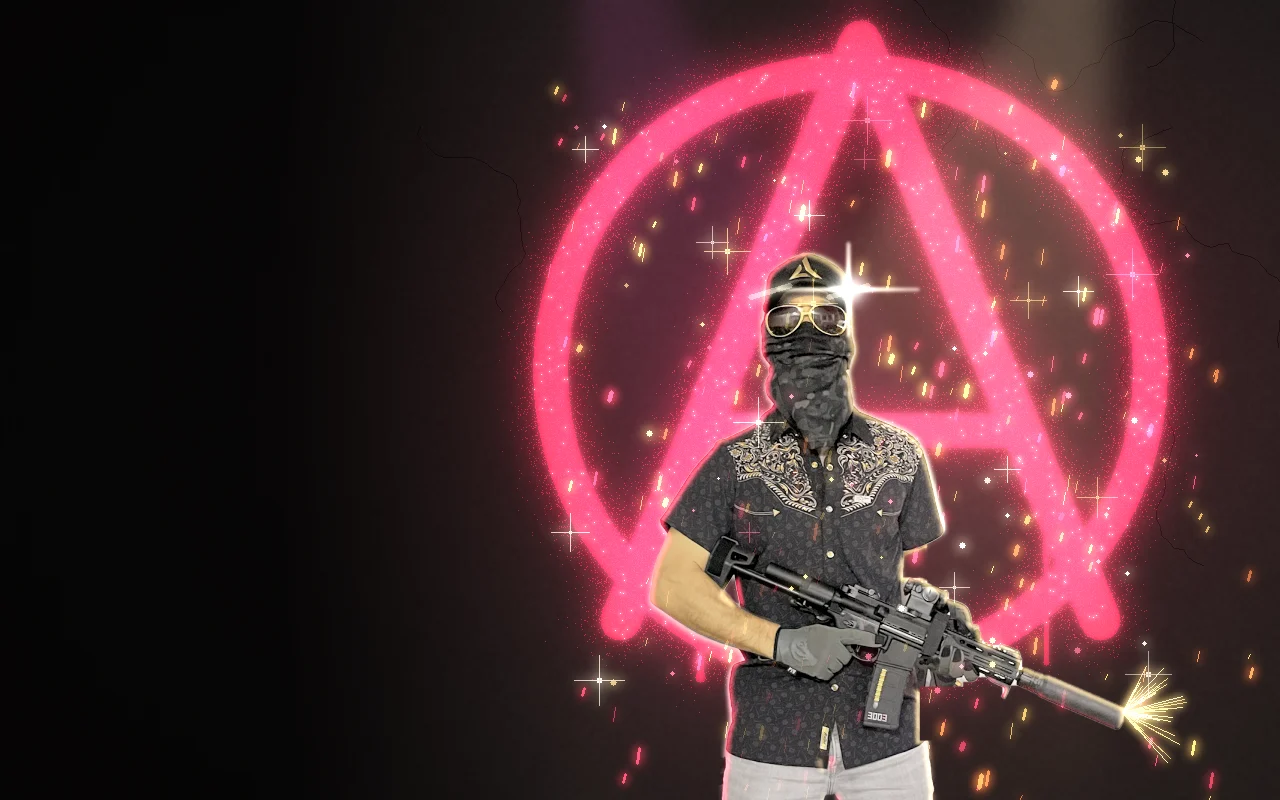
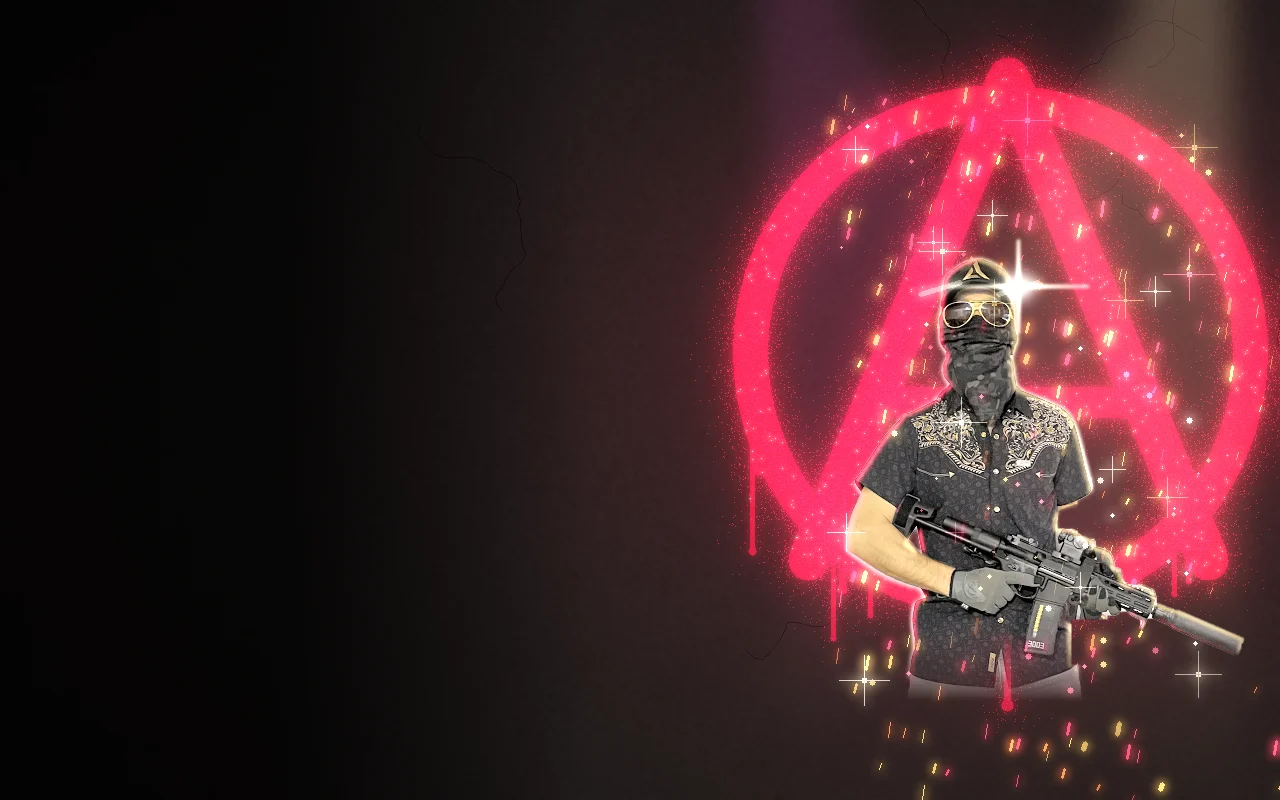
CARD FIXES Group 1 — THE OWNER's LAB FIX NOTES: PLAYER ONE + HALL OF FAME strips show the whole face, SUNSET STRIP's glint on the lenses only (+ a twinkle), YOUNG BUCK + ICE COLD slid right of the plate, THE ANARCHIST v2 (his approved art, the effects moved with him); each marked CHANGED in THE LAB
(css/vault.css + gift-specs.js also carry Group 2's compact gift plate + Group 3's PRESS START — one file each.)

diff --git a/api/_lib/lab-text.js b/api/_lib/lab-text.js
@@ -489,11 +489,28 @@ export const LAB_CHANGES = {
   'card-camo': [{ v: 2, at: '2026-11-05', what: 'The scope’s reticle locks on in the middle-right now — it sat on top of the tier gem in the corner (THE HERO-SPOT RULE).' }],
   'card-sg-tr3b': [{ v: 2, at: '2026-11-05', what: 'The craft sits a little further left, in the middle-right — its right wing ran under the tier gem (THE HERO-SPOT RULE).' }],
   'full-card-century': [{ v: 2, at: '2026-11-03', what: 'The new real fire over the bronze.' }, { v: 3, at: '2026-11-04', what: 'The bronze DECO SUNBURST behind the name instead of the fire, the light sweep + the golden embers — the same as the strip.' }],
-  'card-dev-switchboard': [{ v: 2, at: '2026-11-03', what: 'The pink cable lands in a TOP-row jack. The ONE OF ONE pill is gone — THE DEV GEM (prismatic, pulsing, sparkling) in the corner instead; no words on the strip (the decided rule).' }, { v: 3, at: '2026-11-05', what: 'The jacks moved a little right — THE DEV · № 0001 line’s plate reached them (THE HERO-SPOT RULE).' }],
-  'card-dev-source': [{ v: 2, at: '2026-11-03', what: 'NEON brought down + centred in the strip. The pill → THE DEV GEM.' }, { v: 3, at: '2026-11-05', what: 'NEON a touch smaller, between your plate (THE DEV · № line) + the dev gem — it ran into both (THE HERO-SPOT RULE).' }],
-  'full-card-dev-switchboard': [{ v: 2, at: '2026-11-03', what: '1 OF 1 · DEV in bold. The top row reads NEON SPEAKEASY · FOUNDER (its Nº dropped — it’s under your name); the badge never covers the VU meter.' }, { v: 3, at: '2026-11-04', what: 'The pill reads just 1 OF 1 (it cut off FOUNDER). The top line never clips now — its letters tighten first.' }, { v: 4, at: '2026-11-04', what: 'Your name plate now reaches past THE DEVELOPER · № 0001 (it was sized to the name and the line ran past its edge).' }, { v: 5, at: '2026-11-05', what: 'ON AIR moved up into the band under the top line, right of the level lamps — a long name’s plate ran over it. 1 OF 1 is back in the rainbow gradient (brighter colours, a dark edge, a touch bigger) with a clear gap before FOUNDER.' }],
-  'full-card-dev-source': [{ v: 2, at: '2026-11-03', what: '1 OF 1 · DEV in bold.' }, { v: 3, at: '2026-11-04', what: 'The pill reads just 1 OF 1. The top line never clips now — its letters tighten first.' }, { v: 4, at: '2026-11-04', what: 'Your name plate now reaches past THE DEVELOPER · № 0001 (it ran past the plate’s edge).' }, { v: 5, at: '2026-11-05', what: '1 OF 1 is back in the rainbow gradient (brighter colours, a dark edge, a touch bigger) with a clear gap before FOUNDER.' }],
+  'card-dev-switchboard': [{ v: 2, at: '2026-11-03', what: 'The pink cable lands in a TOP-row jack. The ONE OF ONE pill is gone — THE DEV GEM (prismatic, pulsing, sparkling) in the corner instead; no words on the strip (the decided rule).' }, { v: 3, at: '2026-11-05', what: 'The jacks moved a little right — THE DEV · № 0001 line’s plate reached them (THE HERO-SPOT RULE).' }, { v: 4, at: '2026-11-05', what: 'The plate’s dev line reads DEV · Nº 0001 (was THE DEV / THE DEVELOPER).' }],
+  'card-dev-source': [{ v: 2, at: '2026-11-03', what: 'NEON brought down + centred in the strip. The pill → THE DEV GEM.' }, { v: 3, at: '2026-11-05', what: 'NEON a touch smaller, between your plate (THE DEV · № line) + the dev gem — it ran into both (THE HERO-SPOT RULE).' }, { v: 4, at: '2026-11-05', what: 'The plate’s dev line reads DEV · Nº 0001 (was THE DEV / THE DEVELOPER).' }],
+  'full-card-dev-switchboard': [{ v: 2, at: '2026-11-03', what: '1 OF 1 · DEV in bold. The top row reads NEON SPEAKEASY · FOUNDER (its Nº dropped — it’s under your name); the badge never covers the VU meter.' }, { v: 3, at: '2026-11-04', what: 'The pill reads just 1 OF 1 (it cut off FOUNDER). The top line never clips now — its letters tighten first.' }, { v: 4, at: '2026-11-04', what: 'Your name plate now reaches past THE DEVELOPER · № 0001 (it was sized to the name and the line ran past its edge).' }, { v: 5, at: '2026-11-05', what: 'ON AIR moved up into the band under the top line, right of the level lamps — a long name’s plate ran over it. 1 OF 1 is back in the rainbow gradient (brighter colours, a dark edge, a touch bigger) with a clear gap before FOUNDER.' }, { v: 6, at: '2026-11-05', what: 'The plate’s dev line reads DEV · Nº 0001 (was THE DEV / THE DEVELOPER).' }],
+  'full-card-dev-source': [{ v: 2, at: '2026-11-03', what: '1 OF 1 · DEV in bold.' }, { v: 3, at: '2026-11-04', what: 'The pill reads just 1 OF 1. The top line never clips now — its letters tighten first.' }, { v: 4, at: '2026-11-04', what: 'Your name plate now reaches past THE DEVELOPER · № 0001 (it ran past the plate’s edge).' }, { v: 5, at: '2026-11-05', what: '1 OF 1 is back in the rainbow gradient (brighter colours, a dark edge, a touch bigger) with a clear gap before FOUNDER.' }, { v: 6, at: '2026-11-05', what: 'The plate’s dev line reads DEV · Nº 0001 (was THE DEV / THE DEVELOPER).' }],
   'card-founder': [{ v: 2, at: '2026-11-03', what: 'NEON SPEAKEASY centred. The LEGENDARY + Nº pills are gone — a gold TIER GEM in the corner + your Nº in gold letters.' }],
   'full-card-founder': [{ v: 2, at: '2026-11-03', what: 'The card-game room is now THE SHADOWBOXER, live (the city’s own). The FOUNDER badge sits in a slot clear of anything moving.' }],
-  'full-card-house': [{ v: 2, at: '2026-11-03', what: 'The card-game room is now THE SHADOWBOXER, live (no card game anywhere).' }],
+  'full-card-house': [{ v: 2, at: '2026-11-03', what: 'The card-game room is now THE SHADOWBOXER, live (no card game anywhere).' }],  // CARD FIXES (Nov 5 evening — the owner's LAB notes + THE CARD LAYOUT RULE)
+  'card-gift-playerone': [{ v: 2, at: '2026-11-05', what: 'Your note “Show more of his face”: the strip shows his whole face now, forehead to chin (the art zoomed out a touch, sitting right).' }],
+  'card-gift-halloffame': [{ v: 2, at: '2026-11-05', what: 'Your note “Show more of his face”: the strip shows his whole face, chin included (zoomed out a touch).' }],
+  'card-gift-sunsetstrip': [{ v: 2, at: '2026-11-05', what: 'The glint now crosses the sunglasses ONLY (from the full card’s fix).' }],
+  'card-gift-youngbuck': [{ v: 2, at: '2026-11-05', what: 'The picture slid right with the full card’s fix (his face clear of your plate).' }],
+  'card-gift-icecold': [{ v: 2, at: '2026-11-05', what: 'The picture slid right with the full card’s fix.' }],
+  'card-gift-anarchist': [{ v: 2, at: '2026-11-05', what: 'THE ANARCHIST v2 (your approved picture): him right of the plate + higher, the cap inside the strip; every effect moved with him.' }],
+  'full-card-gift-sunsetstrip': [{ v: 2, at: '2026-11-05', what: 'Your note: the glint is on the GLASSES ONLY now (clipped to the two lenses), brighter, a second thin streak, and a star twinkles on each lens rim as it leaves. No FOUNDER pill on a gift card any more; your name plate hugs its words (THE REVERSE STEP when the level line is the longer) and keeps off the face; nothing on the card overlaps (the top line shortens to “Nº 0001” before it would reach the 1 OF 1).' }],
+  'full-card-gift-youngbuck': [{ v: 2, at: '2026-11-05', what: 'Your note “don’t cut off the bottom of his face”: the picture slid right so the plate no longer covers the lower side of his face. No FOUNDER pill on a gift card any more; your name plate hugs its words (THE REVERSE STEP when the level line is the longer) and keeps off the face; nothing on the card overlaps (the top line shortens to “Nº 0001” before it would reach the 1 OF 1).' }],
+  'full-card-gift-icecold': [{ v: 2, at: '2026-11-05', what: 'Your note “move him over to the right”: the picture slid right (his face ~66–86 % across), the plate clear of him. No FOUNDER pill on a gift card any more; your name plate hugs its words (THE REVERSE STEP when the level line is the longer) and keeps off the face; nothing on the card overlaps (the top line shortens to “Nº 0001” before it would reach the 1 OF 1).' }],
+  'full-card-gift-anarchist': [{ v: 2, at: '2026-11-05', what: 'THE ANARCHIST v2: him right of the plate + higher, the full rifle clear of the card’s name, the circle-A + every effect moved with him. No FOUNDER pill on a gift card any more; your name plate hugs its words (THE REVERSE STEP when the level line is the longer) and keeps off the face; nothing on the card overlaps (the top line shortens to “Nº 0001” before it would reach the 1 OF 1).' }],
+  'full-card-gift-playerone': [{ v: 2, at: '2026-11-05', what: 'PRESS START is big + blinking like an arcade screen now (it was too small to read on a phone). No FOUNDER pill on a gift card any more; your name plate hugs its words (THE REVERSE STEP when the level line is the longer) and keeps off the face; nothing on the card overlaps (the top line shortens to “Nº 0001” before it would reach the 1 OF 1).' }],
+  'full-card-gift-halloffame': [{ v: 2, at: '2026-11-05', what: 'No FOUNDER pill on a gift card any more; your name plate hugs its words (THE REVERSE STEP when the level line is the longer) and keeps off the face; nothing on the card overlaps (the top line shortens to “Nº 0001” before it would reach the 1 OF 1).' }],
+  'full-card-gift-enforcer': [{ v: 2, at: '2026-11-05', what: 'No FOUNDER pill on a gift card any more; your name plate hugs its words (THE REVERSE STEP when the level line is the longer) and keeps off the face; nothing on the card overlaps (the top line shortens to “Nº 0001” before it would reach the 1 OF 1).' }],
+  'full-card-gift-linebacker': [{ v: 2, at: '2026-11-05', what: 'No FOUNDER pill on a gift card any more; your name plate hugs its words (THE REVERSE STEP when the level line is the longer) and keeps off the face; nothing on the card overlaps (the top line shortens to “Nº 0001” before it would reach the 1 OF 1).' }],
+  'full-card-gift-underlights': [{ v: 2, at: '2026-11-05', what: 'No FOUNDER pill on a gift card any more; your name plate hugs its words (THE REVERSE STEP when the level line is the longer) and keeps off the face; nothing on the card overlaps (the top line shortens to “Nº 0001” before it would reach the 1 OF 1).' }],
+  'full-card-gift-goldenhour': [{ v: 2, at: '2026-11-05', what: 'No FOUNDER pill on a gift card any more; your name plate hugs its words (THE REVERSE STEP when the level line is the longer) and keeps off the face; nothing on the card overlaps (the top line shortens to “Nº 0001” before it would reach the 1 OF 1).' }],
+  'full-card-gift-goldenboot': [{ v: 2, at: '2026-11-05', what: 'No FOUNDER pill on a gift card any more; your name plate hugs its words (THE REVERSE STEP when the level line is the longer) and keeps off the face; nothing on the card overlaps (the top line shortens to “Nº 0001” before it would reach the 1 OF 1).' }],
 };

diff --git a/js/fx/gift-specs.js b/js/fx/gift-specs.js
@@ -3,6 +3,10 @@
 // tests/shell-b2.test.mjs checks they match) + its LAYERS, every position in ART pixels. `on: 'full'` = the full card only (the strip is the
 // calmer cut). PURE data — no names (the names are the server's).
 //   hero    [x, y, w, h] — the card's MAIN FEATURE (the face) in art px: THE HERO-SPOT RULE checks it on the strip (vault/hero.js)
+//   heroFull [x, y, w, h] — the full card's hero (the face + what matters round it — the rifle, the ball …; default `hero`): THE PLATE
+//           PLACEMENT RULE keeps the full card's plate off it (vault/layout.js — CARD FIXES)
+//   strip   [px, py, z?] — the strip's crop: the CSS background-position %, z = a zoom OUT (< 1: more of the art in the band — the face whole;
+//           the art then sits right, its dark left under the plate; css/vault.css `background-size: z·100% auto`)
 //   motes   { box, n, rgb, size: [min, max], dir: 'up'|'down'|'drift', speed (art px/s), a, kind: 'glow'|'spark'|'dot', tw (twinkle 0..1) }
 //   breathe { at, r, rgb, a: [lo, hi], period, flicker (quick dips a second, 0..1) }      — a light pulsing / buzzing / flickering
 //   sweep   { box, period, dur, angle, rgb, width, a }                                    — a soft band crossing the box (a gleam, a glint)
@@ -26,6 +30,8 @@
 //   streaks { box, n, rgb, a }                                                            — speed streaks shimmering
 //   edge    { rgb, a: [lo, hi], period }                                                  — the card's own neon edge pulsing
 //   bar     { box, period, rgb, width, a }                                                — a photocopier's light bar sweeping
+//   glint   { lenses: [[cx, cy, rx, ry]…], period, dur, angle, rgb, width, a, stars: [[x, y]…], size } — a glint across the LENSES only
+//           (clipped to them) + a star twinkling on the rims after it passes (CARD FIXES: the shiba's sunglasses)
 export const GIFT_SPECS = Object.freeze({
   'card-gift-enforcer': { art: 'enforcer', hero: [720, 140, 260, 290], strip: [50, 28], layers: [
     { t: 'breathe', at: [290, 370], r: 340, rgb: '255,244,225', a: [0.02, 0.16], period: 3.2, flicker: 0.7 },
@@ -45,22 +51,22 @@ export const GIFT_SPECS = Object.freeze({
     { t: 'grid', y0: 600, rgb: '255,79,216', a: 0.55, speed: 0.35 },
     { t: 'edge', rgb: '255,79,216', a: [0.25, 0.75], period: 2.4 },
   ] },
-  'card-gift-halloffame': { art: 'halloffame', hero: [847, 244, 140, 207], strip: [50, 28], layers: [
+  'card-gift-halloffame': { art: 'halloffame', hero: [848, 236, 190, 222], strip: [100, 40, 0.9], layers: [
     { t: 'breathe', at: [1060, 300], r: 560, rgb: '255,210,150', a: [0.04, 0.15], period: 5 },
     { t: 'sweep', box: [740, 0, 540, 712], period: 6, dur: 1.8, angle: -0.5, rgb: '255,240,200', width: 120, a: 0.5 },
     { t: 'motes', box: [760, 0, 500, 700], n: 24, rgb: '255,226,180', size: [1.2, 2.6], dir: 'up', speed: 6, a: 0.6, kind: 'dot', tw: 0.6 },
   ] },
-  'card-gift-playerone': { art: 'playerone', hero: [790, 200, 220, 280], strip: [50, 32.5], layers: [
+  'card-gift-playerone': { art: 'playerone', hero: [790, 200, 220, 290], heroFull: [790, 60, 440, 440], strip: [100, 38.5, 0.75], layers: [
     { t: 'scan', a: 0.16, gap: 3, flicker: 0.06 },
     { t: 'twinkle', box: [640, 30, 600, 620], n: 9, rgb: '255,255,255', size: 26, period: 1.7, pixel: true },
     { t: 'twinkle', box: [640, 30, 600, 620], n: 5, rgb: '255,214,90', size: 22, period: 2.3, pixel: true },
-    { t: 'text', on: 'full', at: [640, 752], text: 'PRESS START', font: '700 34px "JetBrains Mono", Consolas, monospace', fill: '#7fe9ff', size: 300, mode: 'blink', period: 1.2, center: true },
+    { t: 'text', on: 'full', at: [640, 752], text: 'PRESS START', font: '800 118px "JetBrains Mono", Consolas, monospace', fill: '#8ff0ff', stroke: '#06102a', size: 540, mode: 'blink', period: 1.1, center: true },   // (CARD FIXES: readable at 402 unzoomed — it was a 19 pt smudge; an arcade's blink)
   ] },
-  'card-gift-sunsetstrip': { art: 'sunsetstrip', hero: [760, 270, 340, 200], strip: [50, 43], layers: [
+  'card-gift-sunsetstrip': { art: 'sunsetstrip', hero: [760, 270, 340, 200], heroFull: [730, 90, 480, 470], strip: [50, 43], layers: [
     { t: 'haze', box: [440, 300, 500, 340], rgb: '255,220,160', a: 0.1 },
     { t: 'palm', at: [150, 655], h: 430, sway: 0.035, period: 5.5, rgb: '28,8,40' },
     { t: 'palm', at: [345, 655], h: 300, sway: 0.03, period: 6.3, rgb: '28,8,40', flip: true },   // (both palms left: a palm across the shiba's face read as a mistake)
-    { t: 'sweep', box: [720, 270, 420, 150], period: 4.5, dur: 0.8, angle: -0.6, rgb: '255,255,255', width: 46, a: 0.85 },
+    { t: 'glint', lenses: [[806, 331, 62, 53], [995, 342, 77, 60]], period: 3.6, dur: 0.9, angle: -0.7, rgb: '255,255,255', width: 70, a: 1, stars: [[858, 292], [1056, 300]], size: 64 },
     { t: 'motes', box: [300, 280, 980, 520], n: 22, rgb: '255,214,150', size: [3, 6], dir: 'up', speed: 14, a: 0.8, kind: 'spark', tw: 0.8 },
   ] },
   'card-gift-goldenhour': { art: 'goldenhour', hero: [725, 180, 360, 420], strip: [50, 43], layers: [
@@ -69,16 +75,16 @@ export const GIFT_SPECS = Object.freeze({
     { t: 'heart', at: [612, 300], size: 96, period: 1.15 },
     { t: 'twinkle', pts: [[600, 150], [690, 600], [1110, 640], [1060, 190], [760, 520]], rgb: '255,250,220', size: 34, period: 1.9 },
   ] },
-  'card-gift-anarchist': { art: 'anarchist', hero: [760, 250, 110, 170], strip: [50, 38], layers: [
-    { t: 'breathe', at: [850, 330], r: 640, rgb: '255,50,110', a: [0.08, 0.22], period: 1.9, flicker: 0.6 },
-    { t: 'beams', at: [905, -40], rgb: ['255,210,120', '255,90,180'], a: 0.09, spread: 0.22, sway: 0.12, period: 9 },
-    { t: 'drips', pts: [[606, 610, 70], [648, 628, 55], [1088, 600, 60], [1116, 572, 80], [858, 30, 40], [1150, 380, 50]], rgb: '255,60,120' },
-    { t: 'twinkle', ring: [850, 330, 300], n: 16, rgb: '255,220,240', size: 22, period: 2.1 },
-    { t: 'motes', box: [520, 120, 720, 680], n: 30, rgb: '255,170,80', size: [2, 4], dir: 'up', speed: 26, a: 0.85, kind: 'glow', tw: 0.4 },
-    { t: 'sweep', box: [760, 280, 140, 70], period: 5, dur: 0.7, angle: 0, rgb: '255,255,255', width: 40, a: 0.95, star: true },
-    { t: 'smoke', box: [0, 480, 1280, 320], n: 6, rgb: '190,170,200', a: 0.08 },
+  'card-gift-anarchist': { art: 'anarchist', hero: [935, 255, 100, 170], heroFull: [855, 255, 395, 440], strip: [50, 38], layers: [   // (v2 — CARD FIXES)
+    { t: 'breathe', at: [995, 310], r: 540, rgb: '255,50,110', a: [0.08, 0.22], period: 1.9, flicker: 0.6 },
+    { t: 'beams', at: [1080, -40], rgb: ['255,210,120', '255,90,180'], a: 0.09, spread: 0.22, sway: 0.12, period: 9 },
+    { t: 'drips', pts: [[752, 500, 60], [795, 545, 35], [868, 590, 50], [1003, 650, 55], [1186, 560, 45], [1222, 530, 40]], rgb: '255,60,120' },
+    { t: 'twinkle', ring: [995, 310, 255], n: 16, rgb: '255,220,240', size: 22, period: 2.1 },
+    { t: 'motes', box: [700, 60, 580, 740], n: 30, rgb: '255,170,80', size: [2, 4], dir: 'up', speed: 26, a: 0.85, kind: 'glow', tw: 0.4 },
+    { t: 'sweep', box: [930, 290, 100, 45], period: 5, dur: 0.7, angle: 0, rgb: '255,255,255', width: 40, a: 0.95, star: true },
+    { t: 'smoke', box: [560, 560, 720, 240], n: 6, rgb: '190,170,200', a: 0.08 },
   ] },
-  'card-gift-goldenboot': { art: 'goldenboot', hero: [755, 270, 100, 110], strip: [50, 43], layers: [
+  'card-gift-goldenboot': { art: 'goldenboot', hero: [755, 270, 100, 110], heroFull: [745, 250, 175, 230], strip: [50, 43], layers: [
     { t: 'breathe', at: [560, 70], r: 280, rgb: '255,255,235', a: [0.12, 0.34], period: 4 },
     { t: 'breathe', at: [1010, 95], r: 300, rgb: '255,255,235', a: [0.12, 0.34], period: 4.7 },
     { t: 'motes', box: [380, 0, 900, 720], n: 30, rgb: '255,214,120', size: [2, 4], dir: 'drift', speed: 9, a: 0.8, kind: 'glow', tw: 0.5 },
@@ -87,18 +93,18 @@ export const GIFT_SPECS = Object.freeze({
     { t: 'twinkle', box: [0, 474, 1280, 64], n: 22, rgb: '200,240,255', size: 12, period: 1.4 },
     { t: 'streaks', box: [480, 200, 300, 220], n: 7, rgb: '255,240,220', a: 0.35 },
   ] },
-  'card-gift-youngbuck': { art: 'youngbuck', hero: [700, 340, 330, 140], strip: [50, 52], layers: [
-    { t: 'bar', box: [522, 0, 758, 800], period: 7, rgb: '220,255,255', width: 70, a: 0.32 },
-    { t: 'region', src: [598, 548, 548, 100], mode: 'jitter', period: 0.14, amp: 2.2 },
-    { t: 'breathe', at: [1032, 262], r: 180, rgb: '250,255,90', a: [0.0, 0.34], period: 0.8, flicker: 0.9 },
-    { t: 'haze', box: [522, 0, 758, 800], rgb: '255,190,240', a: 0.05, halftone: true },
-    { t: 'sweep', box: [500, 0, 50, 800], period: 5.5, dur: 1.2, angle: 1.5708, rgb: '255,255,255', width: 50, a: 0.7 },
+  'card-gift-youngbuck': { art: 'youngbuck', hero: [840, 340, 270, 140], heroFull: [770, 80, 470, 570], strip: [50, 52], layers: [   // (the art slid right 130 — CARD FIXES)
+    { t: 'bar', box: [652, 0, 628, 800], period: 7, rgb: '220,255,255', width: 70, a: 0.32 },
+    { t: 'region', src: [728, 548, 548, 100], mode: 'jitter', period: 0.14, amp: 2.2 },
+    { t: 'breathe', at: [1162, 262], r: 180, rgb: '250,255,90', a: [0.0, 0.34], period: 0.8, flicker: 0.9 },
+    { t: 'haze', box: [652, 0, 628, 800], rgb: '255,190,240', a: 0.05, halftone: true },
+    { t: 'sweep', box: [630, 0, 50, 800], period: 5.5, dur: 1.2, angle: 1.5708, rgb: '255,255,255', width: 50, a: 0.7 },
   ] },
-  'card-gift-icecold': { art: 'icecold', hero: [690, 140, 260, 300], strip: [50, 32.5], layers: [
-    { t: 'aurora', box: [430, 30, 760, 280], rgbs: ['110,255,220', '170,130,255'], a: 0.16 },
+  'card-gift-icecold': { art: 'icecold', hero: [840, 140, 260, 300], heroFull: [840, 70, 300, 460], strip: [50, 32.5], layers: [   // (the art slid right 150 — CARD FIXES)
+    { t: 'aurora', box: [580, 30, 700, 280], rgbs: ['110,255,220', '170,130,255'], a: 0.16 },
     { t: 'motes', box: [0, -20, 1280, 840], n: 46, rgb: '255,255,255', size: [1.5, 3.6], dir: 'down', speed: 34, a: 0.85, kind: 'dot', tw: 0.2 },
     { t: 'frost', rgb: '215,240,255', a: [0.08, 0.32], period: 10 },
-    { t: 'puff', at: [728, 412], rgb: '235,248,255', period: 3.6, dir: -1 },
-    { t: 'sweep', box: [690, 60, 430, 740], period: 6.5, dur: 1.4, angle: -1.2, rgb: '210,245,255', width: 34, a: 0.45 },
+    { t: 'puff', at: [878, 412], rgb: '235,248,255', period: 3.6, dir: -1 },
+    { t: 'sweep', box: [840, 60, 440, 740], period: 6.5, dur: 1.4, angle: -1.2, rgb: '210,245,255', width: 34, a: 0.45 },
   ] },
 });

diff --git a/css/vault.css b/css/vault.css
@@ -977,7 +977,7 @@ body.reduced-fx .vl-gem-gl, .vl-still .vl-gem-gl { opacity: 0.9; transform: none
 @media (prefers-reduced-motion: reduce) { .vl-fc-fd::after { animation: none; display: none; } }
 /* LOBBY 2.0 A — THE STEPPED PLATE (strip.js#layStep): the step's edge line, over the glass, under nothing that's tapped */
 .vl-lv { align-self: flex-start; }   /* (the stepped plate measures the level row by its text) */
-.vl-plate > .vl-step { position: absolute; left: 0; top: 0; overflow: visible; pointer-events: none; }
+.vl-plate > .vl-step, .vl-fc-plate > .vl-step { position: absolute; left: 0; top: 0; overflow: visible; pointer-events: none; }   /* (CARD FIXES: the full card steps too) */
 /* LOBBY FIXES — CUSTOMIZE's top: YOUR NAME + YOUR COLOUR, two plain rows (the owner's ADD-ON 3) — each opens its editor (profile/edit.js) */
 .vl-yr { display: flex; flex-direction: column; gap: 8px; margin: 2px 0 10px; }
 
@@ -985,8 +985,12 @@ body.reduced-fx .vl-gem-gl, .vl-still .vl-gem-gl { opacity: 0.9; transform: none
    reduced motion: it simply appears) */
 .vl-gift-head { display: flex; flex-direction: column; align-items: center; gap: 6px; margin: 0 0 14px; text-align: center; }
 .vl-gift-head small { font: 700 12px/1 var(--font-ui); letter-spacing: 0.34em; color: #ffd6f2; }
-.vl-gift-head b { font: 900 clamp(18px, 5.4vw, 26px)/1.05 var(--font-display); letter-spacing: 0.08em; color: transparent; -webkit-text-fill-color: transparent;
-  background: linear-gradient(90deg, #ff9ed8, #ffe07a 30%, #8dffbe 55%, #7aeeff 78%, #d2bdff); -webkit-background-clip: text; background-clip: text; }   /* (no filter: it moves in — the vault's no-filter-under-motion rule) */
+/* CARD FIXES — the owner (Nov 5 4:58 pm): the rainbow header was "too much" → SOLID: ONE OF ONE white + IT'S YOURS gold, a soft static glow (no
+   gradient, no filter: it moves in — the vault's no-filter-under-motion rule) */
+.vl-gift-head b { font: 900 clamp(18px, 5.4vw, 26px)/1.05 var(--font-display); letter-spacing: 0.08em; }
+.vl-gift-head .vl-gift-one { color: #fffaf2; text-shadow: 0 0 10px rgba(255, 255, 255, 0.35), 0 1px 2px rgba(0, 0, 0, 0.8); }
+.vl-gift-head .vl-gift-dot { font-style: normal; color: rgba(255, 250, 242, 0.7); }
+.vl-gift-head .vl-gift-yours { color: #ffd36a; text-shadow: 0 0 12px rgba(255, 196, 80, 0.45), 0 1px 2px rgba(0, 0, 0, 0.8); }
 .vl-full-flip .vl-gift-head { animation: vl-gift-head 0.7s ease-out both; }
 .vl-full-flip { perspective: 1400px; }
 .vl-full-flip .vl-full-stage { animation: vl-gift-flip 1.15s cubic-bezier(.2, .8, .2, 1) 0.25s both; transform-origin: 50% 50%; backface-visibility: hidden; }   /* (the stage: the card + its fx canvas turn together — slots are placed by offsets) */
@@ -1003,9 +1007,9 @@ body.reduced-fx .vl-gem-gl, .vl-still .vl-gem-gl { opacity: 0.9; transform: none
 .vl-fcm-g-linebacker .vl-mat { background-position: 50% 50%; }
 .vl-s-g-underlights .vl-mat { background: #07060a url('../assets/vault/gift/underlights.webp') 50% 28% / cover no-repeat; }
 .vl-fcm-g-underlights .vl-mat { background-position: 50% 50%; }
-.vl-s-g-halloffame .vl-mat { background: #07060a url('../assets/vault/gift/halloffame.webp') 50% 28% / cover no-repeat; }
+.vl-s-g-halloffame .vl-mat { background: #0b0806 url('../assets/vault/gift/halloffame.webp') 100% 40% / 90% auto no-repeat; }   /* (CARD FIXES: "show more of his face" — zoomed out, the face whole) */
 .vl-fcm-g-halloffame .vl-mat { background-position: 50% 50%; }
-.vl-s-g-playerone .vl-mat { background: #07060a url('../assets/vault/gift/playerone.webp') 50% 32.5% / cover no-repeat; }
+.vl-s-g-playerone .vl-mat { background: #0b1640 url('../assets/vault/gift/playerone.webp') 100% 38.5% / 75% auto no-repeat; }   /* (the same: his face whole; the art's navy carried on under the plate) */
 .vl-fcm-g-playerone .vl-mat { background-position: 50% 50%; }
 .vl-s-g-sunsetstrip .vl-mat { background: #07060a url('../assets/vault/gift/sunsetstrip.webp') 50% 43% / cover no-repeat; }
 .vl-fcm-g-sunsetstrip .vl-mat { background-position: 50% 50%; }
@@ -1024,3 +1028,8 @@ body.reduced-fx .vl-gem-gl, .vl-still .vl-gem-gl { opacity: 0.9; transform: none
 .vl-fcm-g-goldenhour .vl-fc-house, .vl-fcm-g-goldenhour .vl-fc-since small, .vl-fcm-g-goldenhour .vl-fc-since b, .vl-fcm-g-goldenhour .vl-fc-card { color: #6e2445; text-shadow: 0 1px 0 rgba(255, 255, 255, 0.6); }   /* (the light page: dark ink) */
 .vl-gift-pvrow { display: flex; flex-direction: column; align-items: center; gap: 6px; margin-top: 10px; text-align: center; }
 .vl-gift-pvrow small { font: 600 12px/1.35 var(--font-ui); color: var(--text-dim); max-width: 340px; }
+/* CARD FIXES — THE PLATE PLACEMENT RULE on a GIFT card's full card (the owner: "show THE MOST OF THE CARD"): the plate hugs its text a little
+   tighter (a smaller emblem, less air, the level line's letters closer) so it ends before the hero (vault/layout.js keeps it off) */
+.vl-gift-fc .vl-fc-plate { gap: 2.4cqi; padding: 2cqi 3.6cqi 2cqi 2.2cqi; }
+.vl-gift-fc .vl-fc-emb { width: 10.5cqi; height: 10.5cqi; }
+.vl-gift-fc .vl-fc-lv { letter-spacing: 0.13em; }

diff --git a/js/fx/gift.js b/js/fx/gift.js
@@ -12,9 +12,10 @@ import { GIFT_SPECS } from './gift-specs.js';
 
 export const GIFT_ART = new URL('../../assets/vault/gift/', import.meta.url).href;
 const AW = 1280, AH = 800;
-/** the art → slot mapping (CSS `background: … px% py% / cover`): { k, ox, oy } */
+/** the art → slot mapping (CSS `background: … px% py% / cover`; crop[2] = a zoom out — CARD FIXES: `z·100% auto`, the strip's width-bound
+ *  cover × z): { k, ox, oy } */
 export function artMap(w, h, crop) {
-  const k = Math.max(w / AW, h / AH), dw = AW * k, dh = AH * k;
+  const k = Math.max(w / AW, h / AH) * (crop[2] || 1), dw = AW * k, dh = AH * k;
   return { k, ox: (w - dw) * (crop[0] / 100), oy: (h - dh) * (crop[1] / 100) };
 }
 const TAU = Math.PI * 2;
@@ -98,6 +99,35 @@ const DRAW = {
     c.translate(vert ? bx + bw / 2 : bx - len * 0.2 + (bw + len * 0.4) * u, vert ? by - bh * 0.2 + bh * 1.4 * u : by + bh / 2); c.rotate(vert ? Math.PI / 2 : L.angle + Math.PI / 2);
     c.globalAlpha = a; c.drawImage(tinted(L.rgb, 'h'), -wd / 2, -len / 2, wd, len);
     c.restore();
+  },
+  // CARD FIXES — the shiba's sunglasses (the owner's LAB note: "the glint goes across the whole face, needs to be glasses only, more noticeable, maybe a
+  // twinkle — this card is special"): a bright band (+ a thin second one) crossing the LENSES only (clipped to their ellipses), then a star
+  // twinkling on each rim as it leaves
+  glint(c, L, M, t, s, Q, F) {
+    const tt = F.still ? L.dur * 0.5 : t % L.period, u = tt / L.dur;
+    if (u >= 0 && u <= 1) {
+      let x0 = Infinity, x1 = -Infinity, y0 = Infinity, y1 = -Infinity;
+      c.save(); c.beginPath();
+      for (const [cx, cy, rx, ry] of L.lenses) {
+        const [x, y] = P(M, cx, cy), a = rx * M.k, b = ry * M.k;
+        c.moveTo(x + a, y); c.ellipse(x, y, a, b, 0, 0, TAU);
+        x0 = Math.min(x0, x - a); x1 = Math.max(x1, x + a); y0 = Math.min(y0, y - b); y1 = Math.max(y1, y + b);
+      }
+      c.clip(); c.globalCompositeOperation = 'lighter';
+      const bw = x1 - x0, bh = y1 - y0, len = Math.hypot(bw, bh) * 1.6, wd = L.width * M.k, al = Math.sin(u * Math.PI) * L.a * F.calmA;
+      for (const [off, wk, ak] of [[0, 1, 1], [-wd * 1.3, 0.3, 0.75]]) {
+        c.save(); c.translate(x0 - bh + (bw + bh * 2) * u + off, (y0 + y1) / 2); c.rotate(L.angle + Math.PI / 2);
+        c.globalAlpha = al * ak; c.drawImage(tinted(L.rgb, 'h'), -wd * wk / 2, -len / 2, wd * wk, len); c.restore();
+      }
+      c.restore();
+    }
+    // the twinkle on the rims: the band's last moment → a beat after
+    const v = F.still ? 0.5 : (tt - L.dur * 0.7) / (L.dur * 0.9);
+    if (v > 0 && v < 1) {
+      c.globalCompositeOperation = 'lighter';
+      L.stars.forEach(([sx, sy], i) => { const w = Math.min(1, Math.max(0, v * 1.6 - i * 0.35)), a = Math.sin(w * Math.PI) * F.calmA, [x, y] = P(M, sx, sy);
+        if (a > 0.01) { stamp(c, sparkle(L.rgb), x, y, L.size * M.k * 3 * (0.7 + 0.3 * a), a); stamp(c, glow(L.rgb, 0.3), x, y, L.size * M.k * 1.6, a * 0.5); } });
+    }
   },
   rays(c, L, M, t, s, Q, F) {
     const [x, y] = P(M, L.at[0], L.at[1]), R = 1800 * M.k, rot = (F.still ? 0.2 : t * L.speed);
@@ -245,7 +275,7 @@ export function giftFx(card) {
     draw(c, s, t, Q) {
       if (!S) return;
       const full = !!s.opts.full, still = !!Q.still, calm = s.opts.calm ? 0.75 : 1;
-      const M = artMap(s.w, s.h, full ? [50, 50] : S.strip);
+      const M = artMap(s.w, s.h, full ? (S.full || [50, 50]) : S.strip);
       s.giftArt = S.art;
       const F = { full, still, calmA: full ? 1 : 0.85 * calm };
       c.save(); rrect(c, 0, 0, s.w, s.h, s.opts.radius || 12); c.clip();

diff --git a/js/vault/catalog.js b/js/vault/catalog.js
@@ -219,9 +219,13 @@ export function registerLabText(t) { for (const x of LAB) if (t && t[x.id]) Obje
 // beside his old mark. (An APPROVE still ships the newer art: CHANGED asks for a re-look, it never pulls approved art.)
 export const LAB_V = Object.freeze({
   'card-inferno': 2, 'full-card-inferno': 2, 'card-century': 4, 'full-card-century': 3,
-  'card-dev-switchboard': 3, 'card-dev-source': 3, 'card-prism': 2, 'card-emerald': 2, 'card-sg-ufo': 2, 'card-marquee': 2, 'full-card-dev-switchboard': 5, 'full-card-dev-source': 5,
+  'card-prism': 2, 'card-emerald': 2, 'card-sg-ufo': 2, 'card-marquee': 2,
   'card-camo': 2, 'card-sg-tr3b': 2,   // (SHELL 2.0 B2 — THE HERO-SPOT AUDIT + the 1 OF 1's gradient)
   'card-founder': 2, 'full-card-founder': 2, 'full-card-house': 2,
+  // (CARD FIXES — the owner's LAB notes + THE CARD LAYOUT RULE: every gift's full card, the strips whose art moved, the dev line)
+  'full-card-gift-playerone': 2, 'full-card-gift-halloffame': 2, 'full-card-gift-enforcer': 2, 'full-card-gift-linebacker': 2, 'full-card-gift-underlights': 2, 'full-card-gift-sunsetstrip': 2, 'full-card-gift-goldenhour': 2, 'full-card-gift-goldenboot': 2, 'full-card-gift-youngbuck': 2, 'full-card-gift-icecold': 2, 'full-card-gift-anarchist': 2,
+  'card-gift-playerone': 2, 'card-gift-halloffame': 2, 'card-gift-sunsetstrip': 2, 'card-gift-youngbuck': 2, 'card-gift-icecold': 2, 'card-gift-anarchist': 2,
+  'card-dev-switchboard': 4, 'card-dev-source': 4, 'full-card-dev-switchboard': 6, 'full-card-dev-source': 6,
 });
 /** an item's current version */
 export const verOf = id => LAB_V[id] || 1;

diff --git a/js/vault/hero.js b/js/vault/hero.js
@@ -33,7 +33,7 @@ export const HERO = {
 const AW = 1280, AH = 800, SW = 358, SH = 64;
 for (const [id, S] of Object.entries(GIFT_SPECS)) {
   if (!S.hero) continue;
-  const k = Math.max(SW / AW, SH / AH), ox = (SW - AW * k) * S.strip[0] / 100, oy = (SH - AH * k) * S.strip[1] / 100, [x, y, w, h] = S.hero;
+  const k = Math.max(SW / AW, SH / AH) * (S.strip[2] || 1), ox = (SW - AW * k) * S.strip[0] / 100, oy = (SH - AH * k) * S.strip[1] / 100, [x, y, w, h] = S.hero;
   const y0 = Math.max(0, (oy + y * k) / SH), y1 = Math.min(1, (oy + (y + h) * k) / SH);
   HERO[id] = Object.freeze([[(ox + x * k) / SW, y0, (w * k) / SW, Math.max(0.05, y1 - y0)]]);
 }

diff --git a/docs/vault-lab-marks.md b/docs/vault-lab-marks.md
@@ -1,20 +1,20 @@
 # THE CARD LAB — the owner's marks (read this FIRST in the next VAULT pass)
 
-Exported 2026-11-04 20:21 UTC from https://www.neonspeakeasy.com by scripts/lab-export.mjs. APPROVE = ships as it is (the full card follows its strip) · FIX = rework it to the note · CUT = drop it. Unmarked = not looked at yet. CHANGED = a pass edited it after his mark (THE LAB 2.0 — it waits for his re-mark).
+Exported 2026-11-05 22:21 UTC from https://www.neonspeakeasy.com by scripts/lab-export.mjs. APPROVE = ships as it is (the full card follows its strip) · FIX = rework it to the note · CUT = drop it. Unmarked = not looked at yet. CHANGED = a pass edited it after his mark (THE LAB 2.0 — it waits for his re-mark).
 
 | # | item | tier | mark | note | when | v |
 | --- | --- | --- | --- | --- | --- | --- |
-| 116 | THE SWITCHBOARD (`card-dev-switchboard`) | legendary | APPROVE |  | 2026-11-04 02:03 UTC | v2 |
-| 117 | THE SOURCE (`card-dev-source`) | legendary | APPROVE |  | 2026-11-04 02:04 UTC | v2 |
-| 118 | THE SWITCHBOARD · FULL CARD (`full-card-dev-switchboard`) | legendary | APPROVE |  | 2026-11-04 02:09 UTC | CHANGED (marked v2, now v3) |
-| 119 | THE SOURCE · FULL CARD (`full-card-dev-source`) | legendary | APPROVE |  | 2026-11-04 02:10 UTC | CHANGED (marked v2, now v3) |
+| 116 | THE SWITCHBOARD (`card-dev-switchboard`) | legendary | APPROVE |  | 2026-11-05 21:54 UTC | v3 |
+| 117 | THE SOURCE (`card-dev-source`) | legendary | APPROVE |  | 2026-11-05 21:54 UTC | v3 |
+| 118 | THE SWITCHBOARD · FULL CARD (`full-card-dev-switchboard`) | legendary | APPROVE |  | 2026-11-05 21:56 UTC | v5 |
+| 119 | THE SOURCE · FULL CARD (`full-card-dev-source`) | legendary | APPROVE |  | 2026-11-05 21:56 UTC | v5 |
 | 92 | FOUNDING MEMBER (`card-founder`) | legendary | APPROVE |  | 2026-11-04 02:04 UTC | v2 |
 | 93 | THE HOUSE (`card-house`) | legendary | APPROVE |  | 2026-11-03 19:25 UTC | v1 |
 | 94 | PLATINUM (`card-platinum`) | epic | APPROVE |  | 2026-11-03 19:25 UTC | v1 |
 | 95 | FOUNDING MEMBER · FULL CARD (`full-card-founder`) | legendary | APPROVE |  | 2026-11-04 02:10 UTC | v2 |
 | 96 | THE HOUSE · FULL CARD (`full-card-house`) | legendary | APPROVE |  | 2026-11-04 02:04 UTC | v2 |
 | 97 | PLATINUM · FULL CARD (`full-card-platinum`) | epic | APPROVE |  | 2026-11-03 19:27 UTC | v1 |
-| 34 | LIGHTS OUT (`card-sg-tr3b`) | legendary | APPROVE |  | 2026-11-03 19:25 UTC | v1 |
+| 34 | LIGHTS OUT (`card-sg-tr3b`) | legendary | APPROVE |  | 2026-11-05 21:54 UTC | v2 |
 | 35 | SKY KING (`card-sg-blackbird`) | legendary | APPROVE |  | 2026-11-03 16:29 UTC | v1 |
 | 36 | AFTERBURNER (`card-sg-f22`) | legendary | APPROVE |  | 2026-11-03 16:29 UTC | v1 |
 | 37 | THE FLYING DUTCHMAN (`card-sg-ghostship`) | legendary | APPROVE |  | 2026-11-03 16:41 UTC | v1 |
@@ -34,17 +34,17 @@ Exported 2026-11-04 20:21 UTC from https://www.neonspeakeasy.com by scripts/lab-
 | 2 | SMOKE ROOM (`card-smoke`) | uncommon | APPROVE |  | 2026-11-03 11:23 UTC | v1 |
 | 3 | FROSTBITE (`card-frostbite`) | uncommon | APPROVE |  | 2026-11-03 11:23 UTC | v1 |
 | 4 | INFERNO (`card-inferno`) | rare | APPROVE |  | 2026-11-04 02:05 UTC | v2 |
-| 5 | PRISM (`card-prism`) | rare | APPROVE |  | 2026-11-03 11:24 UTC | v1 |
-| 6 | THE MARQUEE (`card-marquee`) | epic | APPROVE |  | 2026-11-03 11:24 UTC | v1 |
+| 5 | PRISM (`card-prism`) | rare | APPROVE |  | 2026-11-05 21:55 UTC | v2 |
+| 6 | THE MARQUEE (`card-marquee`) | epic | APPROVE |  | 2026-11-05 21:55 UTC | v2 |
 | 7 | GLITTER BOMB (`card-glitter`) | epic | APPROVE |  | 2026-11-03 11:24 UTC | v1 |
-| 8 | I WANT TO BELIEVE (`card-sg-ufo`) | legendary | APPROVE |  | 2026-11-03 11:24 UTC | v1 |
+| 8 | I WANT TO BELIEVE (`card-sg-ufo`) | legendary | APPROVE |  | 2026-11-05 21:55 UTC | v2 |
 | 9 | BOLT · NEON (`emb-test-neon`) | common | APPROVE |  | 2026-11-03 19:36 UTC | v1 |
 | 10 | BOLT · PRISM (`emb-test-prism`) | rare | APPROVE |  | 2026-11-03 19:36 UTC | v1 |
 | 19 | GILDED (`card-gilded`) | common | APPROVE |  | 2026-11-03 14:19 UTC | v1 |
 | 20 | MIDNIGHT (`card-midnight`) | common | APPROVE |  | 2026-11-03 14:19 UTC | v1 |
 | 21 | HEARTBREAKER (`card-heartbreaker`) | uncommon | APPROVE |  | 2026-11-03 14:19 UTC | v1 |
 | 22 | BRASS DECO (`card-brass`) | common | APPROVE |  | 2026-11-03 14:19 UTC | v1 |
-| 23 | EMERALD & BRASS (`card-emerald`) | uncommon | APPROVE |  | 2026-11-03 14:19 UTC | v1 |
+| 23 | EMERALD & BRASS (`card-emerald`) | uncommon | APPROVE |  | 2026-11-05 21:55 UTC | v2 |
 | 24 | NEON GLASS (`card-neonglass`) | uncommon | APPROVE |  | 2026-11-03 14:19 UTC | v1 |
 | 25 | SILVER CHROME (`card-chrome`) | uncommon | APPROVE |  | 2026-11-03 14:19 UTC | v1 |
 | 26 | MIDNIGHT & CHAMPAGNE (`card-champagne`) | uncommon | APPROVE |  | 2026-11-03 14:19 UTC | v1 |
@@ -64,7 +64,7 @@ Exported 2026-11-04 20:21 UTC from https://www.neonspeakeasy.com by scripts/lab-
 | 33 | MIDNIGHT & CHAMPAGNE · FULL CARD (`full-card-champagne`) | uncommon | APPROVE |  | 2026-11-03 14:21 UTC | v1 |
 | 18 | I WANT TO BELIEVE · FULL CARD (`full-card-sg-ufo`) | legendary | APPROVE |  | 2026-11-03 14:21 UTC | v1 |
 | 50 | ZEBRA (`card-zebra`) | uncommon | APPROVE |  | 2026-11-03 16:39 UTC | v1 |
-| 51 | CAMO (`card-camo`) | uncommon | APPROVE |  | 2026-11-03 16:39 UTC | v1 |
+| 51 | CAMO (`card-camo`) | uncommon | APPROVE |  | 2026-11-05 21:55 UTC | v2 |
 | 52 | VELVET ROOM (`card-velvet`) | rare | APPROVE |  | 2026-11-03 16:39 UTC | v1 |
 | 53 | AURORA (`card-aurora`) | rare | APPROVE |  | 2026-11-03 16:39 UTC | v1 |
 | 54 | ONYX & ROSE GOLD (`card-rosegold`) | rare | APPROVE |  | 2026-11-03 16:39 UTC | v1 |
@@ -78,7 +78,7 @@ Exported 2026-11-04 20:21 UTC from https://www.neonspeakeasy.com by scripts/lab-
 | 62 | VELVET NOIR (`card-noir`) | epic | APPROVE |  | 2026-11-03 16:39 UTC | v1 |
 | 63 | SAPPHIRE & SILVER (`card-sapphire`) | epic | APPROVE |  | 2026-11-03 16:39 UTC | v1 |
 | 64 | PRISM LEGEND (`card-legend`) | epic | APPROVE |  | 2026-11-03 16:39 UTC | v1 |
-| 65 | CENTURY (`card-century`) | epic | APPROVE |  | 2026-11-04 12:47 UTC | v3 |
+| 65 | CENTURY (`card-century`) | epic | APPROVE |  | 2026-11-05 21:55 UTC | v4 |
 | 66 | THE MARQUEE · GOLD BULBS (`card-marquee-gold`) | epic | APPROVE |  | 2026-11-03 16:39 UTC | v1 |
 | 67 | PENTHOUSE (`card-penthouse`) | epic | APPROVE |  | 2026-11-03 16:39 UTC | v1 |
 | 68 | WILDFIRE (`card-wildfire`) | legendary | APPROVE |  | 2026-11-03 16:39 UTC | v1 |
@@ -163,3 +163,25 @@ Exported 2026-11-04 20:21 UTC from https://www.neonspeakeasy.com by scripts/lab-
 | 157 | CHAMPAGNE (`glow-champagne`) | rare | APPROVE |  | 2026-11-03 23:43 UTC | v1 |
 | 158 | PRISM (`glow-prism`) | epic | APPROVE |  | 2026-11-03 23:43 UTC | v1 |
 | 159 | GLITCH (`glow-glitch`) | epic | APPROVE |  | 2026-11-03 23:43 UTC | v1 |
+| 160 | PLAYER ONE (`card-gift-playerone`) | legendary | FIX | Show more of his face | 2026-11-05 22:12 UTC | v1 |
+| 161 | HALL OF FAME (`card-gift-halloffame`) | legendary | FIX | Show more of his face | 2026-11-05 22:12 UTC | v1 |
+| 162 | THE ENFORCER (`card-gift-enforcer`) | legendary | APPROVE |  | 2026-11-05 22:12 UTC | v1 |
+| 163 | THE LINEBACKER (`card-gift-linebacker`) | legendary | APPROVE |  | 2026-11-05 22:12 UTC | v1 |
+| 164 | UNDER THE LIGHTS (`card-gift-underlights`) | legendary | APPROVE |  | 2026-11-05 22:11 UTC | v1 |
+| 165 | SUNSET STRIP (`card-gift-sunsetstrip`) | legendary | APPROVE |  | 2026-11-05 22:11 UTC | v1 |
+| 166 | GOLDEN HOUR (`card-gift-goldenhour`) | legendary | APPROVE |  | 2026-11-05 22:11 UTC | v1 |
+| 167 | GOLDEN BOOT (`card-gift-goldenboot`) | legendary | APPROVE |  | 2026-11-05 22:10 UTC | v1 |
+| 168 | YOUNG BUCK (`card-gift-youngbuck`) | legendary | APPROVE |  | 2026-11-05 22:11 UTC | v1 |
+| 169 | ICE COLD (`card-gift-icecold`) | legendary | APPROVE |  | 2026-11-05 22:11 UTC | v1 |
+| 170 | THE ANARCHIST (`card-gift-anarchist`) | legendary | APPROVE |  | 2026-11-05 22:11 UTC | v1 |
+| 171 | PLAYER ONE · FULL CARD (`full-card-gift-playerone`) | legendary | APPROVE |  | 2026-11-05 22:10 UTC | v1 |
+| 172 | HALL OF FAME · FULL CARD (`full-card-gift-halloffame`) | legendary | APPROVE |  | 2026-11-05 22:10 UTC | v1 |
+| 173 | THE ENFORCER · FULL CARD (`full-card-gift-enforcer`) | legendary | APPROVE |  | 2026-11-05 22:10 UTC | v1 |
+| 174 | THE LINEBACKER · FULL CARD (`full-card-gift-linebacker`) | legendary | APPROVE |  | 2026-11-05 22:09 UTC | v1 |
+| 175 | UNDER THE LIGHTS · FULL CARD (`full-card-gift-underlights`) | legendary | APPROVE |  | 2026-11-05 22:09 UTC | v1 |
+| 176 | SUNSET STRIP · FULL CARD (`full-card-gift-sunsetstrip`) | legendary | FIX | Fix the glint on its sunglasses.  Right now it goes across the whole face, needs to be glasses only, make the glint more noticeable.  Maybe add a twinkle.  This card is a special card, It needs to feel that way. | 2026-11-05 22:06 UTC | v1 |
+| 177 | GOLDEN HOUR · FULL CARD (`full-card-gift-goldenhour`) | legendary | APPROVE |  | 2026-11-05 22:06 UTC | v1 |
+| 178 | GOLDEN BOOT · FULL CARD (`full-card-gift-goldenboot`) | legendary | APPROVE |  | 2026-11-05 22:06 UTC | v1 |
+| 179 | YOUNG BUCK · FULL CARD (`full-card-gift-youngbuck`) | legendary | FIX | Everything looks great but don’t cut off the bottom of his face | 2026-11-05 22:07 UTC | v1 |
+| 180 | ICE COLD · FULL CARD (`full-card-gift-icecold`) | legendary | FIX | Move him over to the right side of the frame More, so he is visible | 2026-11-05 22:08 UTC | v1 |
+| 181 | THE ANARCHIST · FULL CARD (`full-card-gift-anarchist`) | legendary | — |  | — | v1 |
